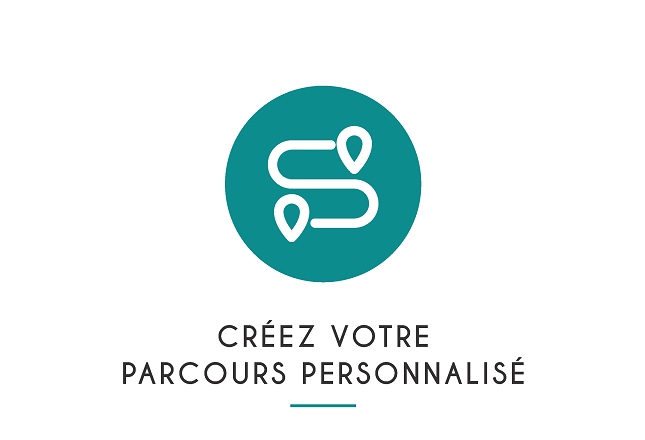
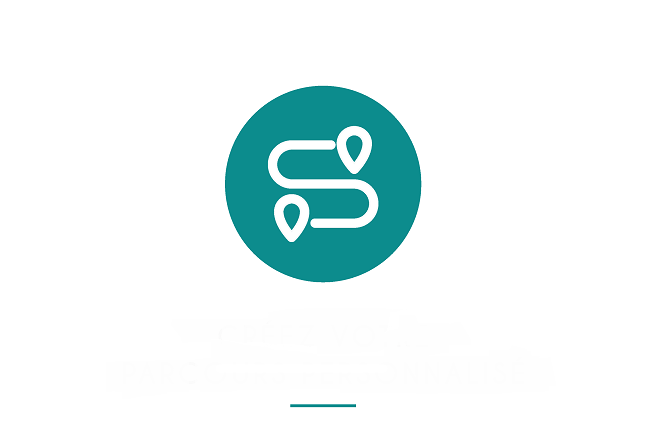
Suppression ancienne icones et mise a jour traduction

Changed region(s): [[0.186, 0.7977, 0.8062, 0.8864], [0.3411, 0.7386, 0.6822, 0.7977]]

diff --git a/rhomobile/public/customjs/lang.js b/rhomobile/public/customjs/lang.js
@@ -7,11 +7,11 @@ var lang = {
 	"genererParcours" : "G&eacuten&eacuterer le parcours",
 	"lieu" : "Lieu",
 	"magasin" : "&nbsp;Magasin(s)",
-	"afficherCarte" : "Afficher la carte",
+	"Carte" : "Carte",
 	"ajouterMagasin" : "Ajouter un magasin",
 	"options" : "Options",
 	"detail" : "D&eacute;tail",
-	"parcoursThematique" : "Parcours Th&eacutematique",
+	"parcoursPredef" : "Laissez-vous guider",
 	"supprimer" : "Supprimer"
 	},	
 	/**
@@ -27,11 +27,11 @@ var lang = {
 	"genererParcours" : "Generate a new path",
 	"lieu" : "Place",
 	"magasin" : "&nbsp;Shop(s)",	
-	"afficherCarte" : "Show the map",
+	"Carte" : "Show the map",
 	"ajouterMagasin" : "Add a new store",
 	"options" : "Settings",
 	"detail" : "Detail",
-	"parcoursThematique" : "Thematic Path",
+	"parcoursPredef" : "Thematic Path",
 	"supprimer" : "Delete"
 	},
 	/**
@@ -47,11 +47,11 @@ var lang = {
 	"genererParcours" : "Genera tu ruta",
 	"lieu" : "Lugar",
 	"magasin" : "&nbsp;Tienda(s)",	
-	"afficherCarte" : "Mostrar el mapa",
+	"Carte" : "Mostrar el mapa",
 	"ajouterMagasin" : "A&ntildeadir una tienda",
 	"options" : "Opciones",
 	"detail" : "Detalle",	
-	"parcoursThematique" : "Ruta tem&aacutetica",
+	"parcoursPredef" : "Ruta tem&aacutetica",
 	"supprimer" : "Eliminar"
 	},
 	/**
@@ -67,30 +67,13 @@ var lang = {
 	"genererParcours" : "erzeugen Sie Ihre Route",
 	"lieu" : "Platz",
 	"magasin" : "&nbsp;Speichert",	
-	"afficherCarte" : "Afficher la carte",
+	"Carte" : "Afficher la carte",
 	"ajouterMagasin" : "fÃ¼gen Sie einen Shop",
 	"options" : "Optionen",
 	"detail" : "Detail",	
-	"parcoursThematique" : "Route Themenweg",
+	"parcoursPredef" : "Route Themenweg",
 	"supprimer" : "Entfernen"
-	}/*,
-	/**
-	 * 
-	 * Passage en coréen
-	 * 
-	 *
-	"kr" : {
-	"rpoch" : "주머니에 렌",
-	"rpochapp" : "주머니에 응용 렌",
-	"creerParcours" : "당신의 자신의 경로를 만들기",
-	"votreParcours" : "당신의 경로를",
-	"genererParcours" : "새 경로를 생성합니다",
-	"lieu" : "장소",
-	"go" : "가기!",
-	"ajouterMagasin" : "새로운 상점을 추가",
-	"options" : "설정",
-	"parcoursThematique" : "테마 경로"
-	}*/
+	}
 	
 }
 

diff --git a/rhomobile/public/css/rpoch.css b/rhomobile/public/css/rpoch.css
@@ -93,13 +93,32 @@ display:none;
         margin-left: auto;
         margin-right: auto;
 }
-
+.TxtParcoursPredef{
+	color:white;
+	font-family:sscat;
+	position:relative;
+    width:auto;
+    bottom:70px;
+    padding:0;
+    text-shadow:none;
+    
+}
 .ImgAccPre{
 	content:url("/app/parcours_predef_fr.png");
         width: auto; 
         height: 50%;
         margin-left: auto;
         margin-right: auto;
+        text-shadow:none;
+}
+.TxtParcoursPerso{
+	color:#008b87;
+	font-family:sscat;
+	position:relative;
+    width:auto;
+    bottom:70px;
+    padding:0;
+    text-shadow:none;
 }
 
 .MenuAcc{
